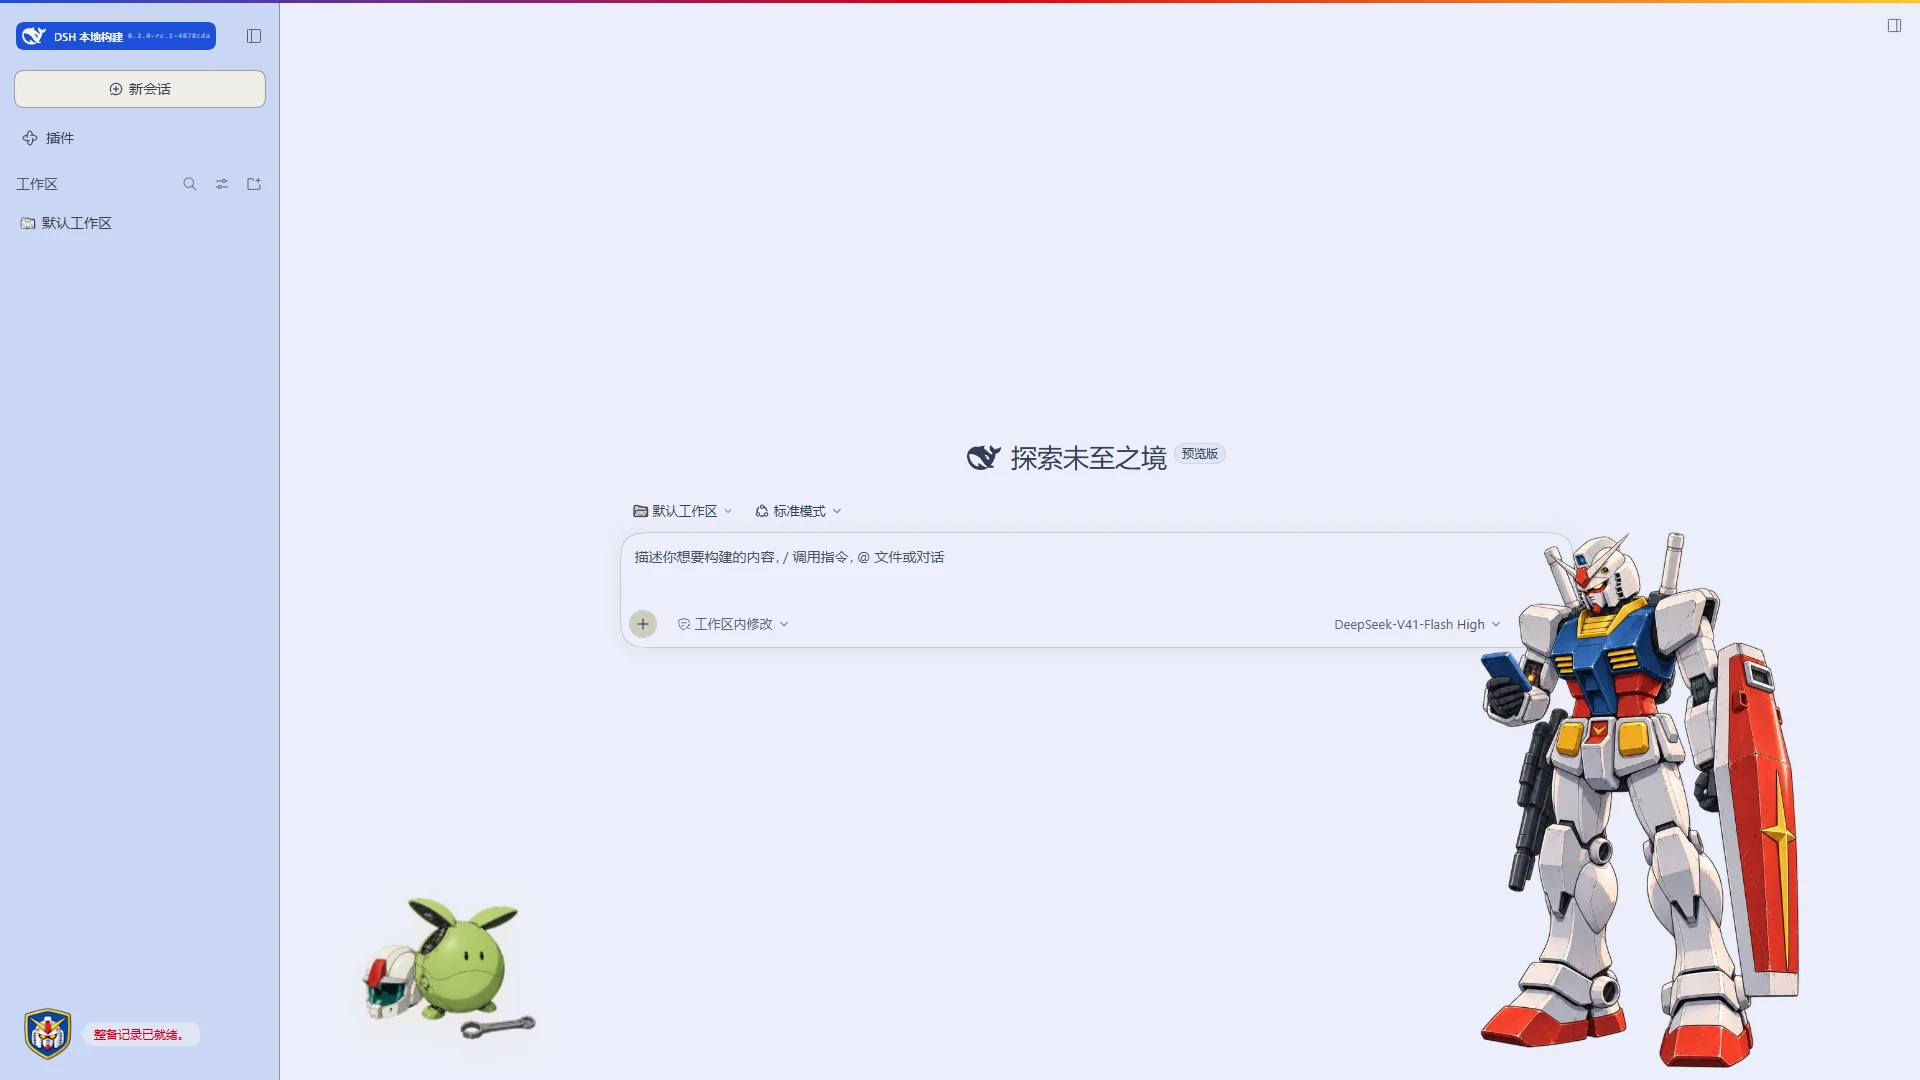
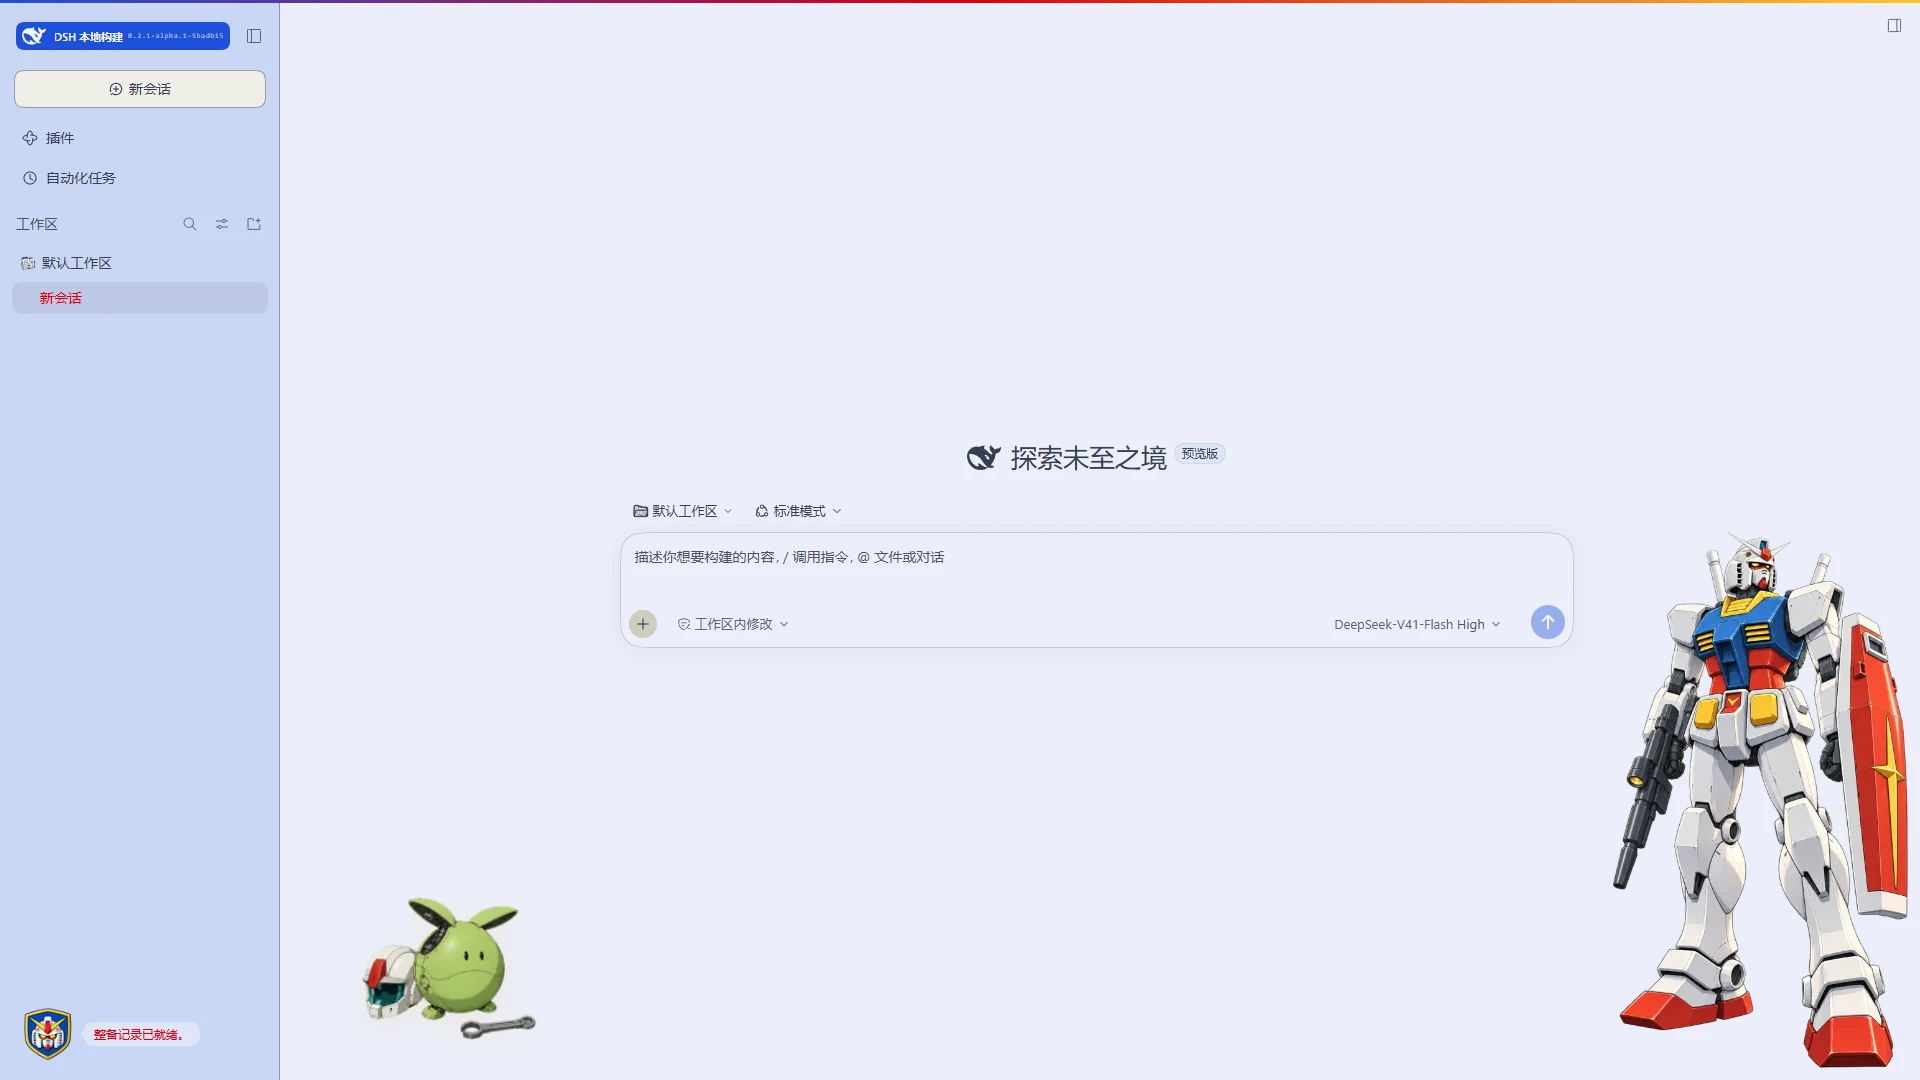
docs: showcase new themes directly in the README

diff --git a/docs/screenshots/README.md b/docs/screenshots/README.md
@@ -1,20 +1,22 @@
 # 大屏主题实拍
 
-48 套氛围主题，浅色与深色各一张，共 96 张，点击图片查看 1920 × 1080 原尺寸。
+65 套氛围主题，浅色与深色各一张，共 130 张，点击图片查看 1920 × 1080 原尺寸。
 
-截图展示 Harness 0.2.0-rc.1 的首页，采用清晰模式和默认侧栏。会话顶部横幅仅在聊天页显示。
+截图来自独立的 Harness 演示环境，展示真实首页、清晰模式和默认侧栏；没有导入个人账号、历史会话或工作区数据。首页不显示会话顶部横幅。
+
+2026-10-09 新增及重制的 18 套使用 Harness 0.2.1-alpha.1 拍摄，其余 47 套保留 0.2.0-rc.1 的截图。截图运行版本不替代 [兼容版本说明](../../README.md#兼容版本)。
 
 ## 快速跳转
 
-按分类选择主题，跳转至浅深色对照图。
+按分类选择主题，跳转至浅深色预览。
 
 **动漫**
 
-[电锯人·玛奇玛](#theme-2) · [吉伊卡哇·草原野餐](#theme-3) · [柯南·米花协奏](#theme-4) · [七龙珠·金焰并肩](#theme-5) · [EVA·初号机·觉醒](#theme-6) · [芙莉莲·花间研习](#theme-7) · [火影忍者·第七班](#theme-8) · [死神·千本樱](#theme-11) · [死神·斩月](#theme-12) · [电锯人·特异课](#theme-13) · [吉伊卡哇·星夜漫游](#theme-14) · [名侦探柯南·月下追踪](#theme-15) · [灰原哀·琥珀微光](#theme-16) · [怪盗基德·月白预告](#theme-17) · [阿拉蕾·企鹅村](#theme-18) · [七龙珠·龟仙流夏日](#theme-19) · [七龙珠·神龙奇旅](#theme-20) · [小林家的龙女仆](#theme-21) · [EVA·二号机·烈焰](#theme-22) · [芙莉莲·月下旅人](#theme-23) · [高达](#theme-24) · [超能力女儿](#theme-25) · [我叫MT](#theme-26) · [鬼灭之刃·羁绊同行](#theme-27) · [鬼灭之刃·柱之誓约](#theme-28) · [鬼灭之刃·樱庭恋歌](#theme-29) · [夏目友人帐](#theme-30) · [海贼王](#theme-31) · [圣斗士·天马流星](#theme-32) · [圣斗士·黄金十二宫](#theme-33) · [蜡笔小新](#theme-34) · [灌篮高手](#theme-35) · [火影忍者·凯班](#theme-36) · [游戏王·决斗之魂](#theme-37)
+[电锯人·玛奇玛](#theme-2) · [吉伊卡哇·草原野餐](#theme-3) · [柯南·米花协奏](#theme-4) · [七龙珠·金焰并肩](#theme-5) · [EVA·初号机·觉醒](#theme-6) · [芙莉莲·花间研习](#theme-7) · [火影忍者·第七班](#theme-8) · [死神·千本樱](#theme-11) · [死神·斩月](#theme-12) · [电锯人·特异课](#theme-13) · [吉伊卡哇·星夜漫游](#theme-14) · [名侦探柯南·月下追踪](#theme-15) · [灰原哀·琥珀微光](#theme-16) · [怪盗基德·月白预告](#theme-17) · [阿拉蕾·企鹅村](#theme-18) · [七龙珠·龟仙流夏日](#theme-19) · [七龙珠·神龙奇旅](#theme-20) · [小林家的龙女仆](#theme-21) · [EVA·二号机·烈焰](#theme-22) · [芙莉莲·月下旅人](#theme-23) · [高达](#theme-24) · [超能力女儿](#theme-25) · [我叫MT](#theme-26) · [鬼灭之刃·羁绊同行](#theme-27) · [鬼灭之刃·柱之誓约](#theme-28) · [鬼灭之刃·樱庭恋歌](#theme-29) · [夏目友人帐](#theme-30) · [海贼王](#theme-31) · [圣斗士·天马流星](#theme-32) · [圣斗士·黄金十二宫](#theme-33) · [蜡笔小新](#theme-34) · [灌篮高手](#theme-35) · [火影忍者·凯班](#theme-36) · [游戏王·决斗之魂](#theme-37) · [高达·ν高达](#theme-49) · [高达·巴巴托斯](#theme-50) · [高达·自由与正义](#theme-51) · [高达·独角兽觉醒](#theme-52) · [名侦探柯南·宝石谜夜](#theme-53) · [名侦探柯南·大阪同行](#theme-54) · [吉伊卡哇·烘焙小队](#theme-55) · [吉伊卡哇·雨后来信](#theme-56) · [七龙珠·包子山家书](#theme-57) · [七龙珠·布欧甜点屋](#theme-58) · [蜡笔小新·春日部探险队](#theme-61) · [蜡笔小新·野原家的周末](#theme-62) · [我叫MT·美屡的林间手札](#theme-63) · [我叫MT·联盟值日生](#theme-64) · [我叫MT·联盟补给站](#theme-65)
 
 **游戏**
 
-[王者荣耀·绝世舞姬](#theme-9) · [魔兽世界·血精灵](#theme-10) · [炉石传说·冰霜法师](#theme-38) · [炉石传说·冰冠王座](#theme-39) · [王者荣耀·青莲剑仙](#theme-40) · [英雄联盟·九尾妖狐](#theme-41) · [英雄联盟·爆爆火花](#theme-42) · [我的世界](#theme-43) · [守望先锋·守护天使](#theme-44) · [守望先锋·时间跃迁](#theme-45) · [魔兽世界·矮人](#theme-46) · [魔兽世界·兽人战士](#theme-47) · [魔兽世界·牛头人德鲁伊](#theme-48)
+[王者荣耀·绝世舞姬](#theme-9) · [魔兽世界·血精灵](#theme-10) · [炉石传说·冰霜法师](#theme-38) · [炉石传说·冰冠王座](#theme-39) · [王者荣耀·青莲剑仙](#theme-40) · [英雄联盟·九尾妖狐](#theme-41) · [英雄联盟·爆爆火花](#theme-42) · [我的世界](#theme-43) · [守望先锋·守护天使](#theme-44) · [守望先锋·时间跃迁](#theme-45) · [魔兽世界·矮人](#theme-46) · [魔兽世界·兽人战士](#theme-47) · [魔兽世界·牛头人德鲁伊](#theme-48) · [英雄联盟·艾欧尼亚茶会](#theme-59) · [英雄联盟·德玛西亚巡礼](#theme-60)
 
 **其他**
 
@@ -22,11 +24,11 @@
 
 <a name="theme-1"></a>
 
-## 大侠咕嘎与 Doro
+## 大侠咕嘎与Doro
 
 | 浅色 | 深色 |
 | --- | --- |
-| [![大侠咕嘎与 Doro · 浅色](01-daxia-light.webp)](01-daxia-light.webp) | [![大侠咕嘎与 Doro · 深色](01-daxia-dark.webp)](01-daxia-dark.webp) |
+| [![大侠咕嘎与Doro · 浅色](01-daxia-light.webp)](01-daxia-light.webp) | [![大侠咕嘎与Doro · 深色](01-daxia-dark.webp)](01-daxia-dark.webp) |
 
 <a name="theme-2"></a>
 
@@ -54,11 +56,11 @@
 
 <a name="theme-5"></a>
 
-## 龙珠·金焰并肩
+## 七龙珠·金焰并肩
 
 | 浅色 | 深色 |
 | --- | --- |
-| [![龙珠·金焰并肩 · 浅色](05-dragon-ball-z-light.webp)](05-dragon-ball-z-light.webp) | [![龙珠·金焰并肩 · 深色](05-dragon-ball-z-dark.webp)](05-dragon-ball-z-dark.webp) |
+| [![七龙珠·金焰并肩 · 浅色](05-dragon-ball-z-light.webp)](05-dragon-ball-z-light.webp) | [![七龙珠·金焰并肩 · 深色](05-dragon-ball-z-dark.webp)](05-dragon-ball-z-dark.webp) |
 
 <a name="theme-6"></a>
 
@@ -403,3 +405,139 @@
 | 浅色 | 深色 |
 | --- | --- |
 | [![魔兽世界·牛头人德鲁伊 · 浅色](48-wow-tauren-light.webp)](48-wow-tauren-light.webp) | [![魔兽世界·牛头人德鲁伊 · 深色](48-wow-tauren-dark.webp)](48-wow-tauren-dark.webp) |
+
+<a name="theme-49"></a>
+
+## 高达·ν高达
+
+| 浅色 | 深色 |
+| --- | --- |
+| [![高达·ν高达 · 浅色](49-gundam-nu-light.webp)](49-gundam-nu-light.webp) | [![高达·ν高达 · 深色](49-gundam-nu-dark.webp)](49-gundam-nu-dark.webp) |
+
+<a name="theme-50"></a>
+
+## 高达·巴巴托斯
+
+| 浅色 | 深色 |
+| --- | --- |
+| [![高达·巴巴托斯 · 浅色](50-gundam-barbatos-light.webp)](50-gundam-barbatos-light.webp) | [![高达·巴巴托斯 · 深色](50-gundam-barbatos-dark.webp)](50-gundam-barbatos-dark.webp) |
+
+<a name="theme-51"></a>
+
+## 高达·自由与正义
+
+| 浅色 | 深色 |
+| --- | --- |
+| [![高达·自由与正义 · 浅色](51-gundam-seed-light.webp)](51-gundam-seed-light.webp) | [![高达·自由与正义 · 深色](51-gundam-seed-dark.webp)](51-gundam-seed-dark.webp) |
+
+<a name="theme-52"></a>
+
+## 高达·独角兽觉醒
+
+| 浅色 | 深色 |
+| --- | --- |
+| [![高达·独角兽觉醒 · 浅色](52-gundam-unicorn-light.webp)](52-gundam-unicorn-light.webp) | [![高达·独角兽觉醒 · 深色](52-gundam-unicorn-dark.webp)](52-gundam-unicorn-dark.webp) |
+
+<a name="theme-53"></a>
+
+## 名侦探柯南·宝石谜夜
+
+| 浅色 | 深色 |
+| --- | --- |
+| [![名侦探柯南·宝石谜夜 · 浅色](53-conan-jewel-light.webp)](53-conan-jewel-light.webp) | [![名侦探柯南·宝石谜夜 · 深色](53-conan-jewel-dark.webp)](53-conan-jewel-dark.webp) |
+
+<a name="theme-54"></a>
+
+## 名侦探柯南·大阪同行
+
+| 浅色 | 深色 |
+| --- | --- |
+| [![名侦探柯南·大阪同行 · 浅色](54-conan-osaka-light.webp)](54-conan-osaka-light.webp) | [![名侦探柯南·大阪同行 · 深色](54-conan-osaka-dark.webp)](54-conan-osaka-dark.webp) |
+
+<a name="theme-55"></a>
+
+## 吉伊卡哇·烘焙小队
+
+| 浅色 | 深色 |
+| --- | --- |
+| [![吉伊卡哇·烘焙小队 · 浅色](55-chiikawa-bakery-light.webp)](55-chiikawa-bakery-light.webp) | [![吉伊卡哇·烘焙小队 · 深色](55-chiikawa-bakery-dark.webp)](55-chiikawa-bakery-dark.webp) |
+
+<a name="theme-56"></a>
+
+## 吉伊卡哇·雨后来信
+
+| 浅色 | 深色 |
+| --- | --- |
+| [![吉伊卡哇·雨后来信 · 浅色](56-chiikawa-rainy-light.webp)](56-chiikawa-rainy-light.webp) | [![吉伊卡哇·雨后来信 · 深色](56-chiikawa-rainy-dark.webp)](56-chiikawa-rainy-dark.webp) |
+
+<a name="theme-57"></a>
+
+## 七龙珠·包子山家书
+
+| 浅色 | 深色 |
+| --- | --- |
+| [![七龙珠·包子山家书 · 浅色](57-dragon-ball-family-light.webp)](57-dragon-ball-family-light.webp) | [![七龙珠·包子山家书 · 深色](57-dragon-ball-family-dark.webp)](57-dragon-ball-family-dark.webp) |
+
+<a name="theme-58"></a>
+
+## 七龙珠·布欧甜点屋
+
+| 浅色 | 深色 |
+| --- | --- |
+| [![七龙珠·布欧甜点屋 · 浅色](58-dragon-ball-sweets-light.webp)](58-dragon-ball-sweets-light.webp) | [![七龙珠·布欧甜点屋 · 深色](58-dragon-ball-sweets-dark.webp)](58-dragon-ball-sweets-dark.webp) |
+
+<a name="theme-59"></a>
+
+## 英雄联盟·艾欧尼亚茶会
+
+| 浅色 | 深色 |
+| --- | --- |
+| [![英雄联盟·艾欧尼亚茶会 · 浅色](59-lol-ionia-light.webp)](59-lol-ionia-light.webp) | [![英雄联盟·艾欧尼亚茶会 · 深色](59-lol-ionia-dark.webp)](59-lol-ionia-dark.webp) |
+
+<a name="theme-60"></a>
+
+## 英雄联盟·德玛西亚巡礼
+
+| 浅色 | 深色 |
+| --- | --- |
+| [![英雄联盟·德玛西亚巡礼 · 浅色](60-lol-demacia-light.webp)](60-lol-demacia-light.webp) | [![英雄联盟·德玛西亚巡礼 · 深色](60-lol-demacia-dark.webp)](60-lol-demacia-dark.webp) |
+
+<a name="theme-61"></a>
+
+## 蜡笔小新·春日部探险队
+
+| 浅色 | 深色 |
+| --- | --- |
+| [![蜡笔小新·春日部探险队 · 浅色](61-shinchan-friends-light.webp)](61-shinchan-friends-light.webp) | [![蜡笔小新·春日部探险队 · 深色](61-shinchan-friends-dark.webp)](61-shinchan-friends-dark.webp) |
+
+<a name="theme-62"></a>
+
+## 蜡笔小新·野原家的周末
+
+| 浅色 | 深色 |
+| --- | --- |
+| [![蜡笔小新·野原家的周末 · 浅色](62-shinchan-family-light.webp)](62-shinchan-family-light.webp) | [![蜡笔小新·野原家的周末 · 深色](62-shinchan-family-dark.webp)](62-shinchan-family-dark.webp) |
+
+<a name="theme-63"></a>
+
+## 我叫MT·美屡的林间手札
+
+| 浅色 | 深色 |
+| --- | --- |
+| [![我叫MT·美屡的林间手札 · 浅色](63-i-am-mt-huntress-light.webp)](63-i-am-mt-huntress-light.webp) | [![我叫MT·美屡的林间手札 · 深色](63-i-am-mt-huntress-dark.webp)](63-i-am-mt-huntress-dark.webp) |
+
+<a name="theme-64"></a>
+
+## 我叫MT·联盟值日生
+
+| 浅色 | 深色 |
+| --- | --- |
+| [![我叫MT·联盟值日生 · 浅色](64-i-am-mt-alliance-duo-light.webp)](64-i-am-mt-alliance-duo-light.webp) | [![我叫MT·联盟值日生 · 深色](64-i-am-mt-alliance-duo-dark.webp)](64-i-am-mt-alliance-duo-dark.webp) |
+
+<a name="theme-65"></a>
+
+## 我叫MT·联盟补给站
+
+| 浅色 | 深色 |
+| --- | --- |
+| [![我叫MT·联盟补给站 · 浅色](65-i-am-mt-alliance-camp-light.webp)](65-i-am-mt-alliance-camp-light.webp) | [![我叫MT·联盟补给站 · 深色](65-i-am-mt-alliance-camp-dark.webp)](65-i-am-mt-alliance-camp-dark.webp) |

diff --git a/README.md b/README.md
@@ -4,15 +4,32 @@
 
 共 65 组主题，每组包含氛围版和简约版，共 260 套浅深色外观。氛围版包含角色壁纸、场景横幅和侧栏伙伴；简约版保留配色，不显示图片装饰。
 
-## 大屏效果
+## 最新主题展示
 
-以下为 1920 × 1080 的 Harness 首页截图。点击图片查看原尺寸。
+2026-10-09 新增的 17 套主题与重绘的「高达」，浅色、深色直接展示。以下为 1920 × 1080 的 Harness 首页实拍，点击图片查看原尺寸。
 
-| 大侠咕嘎与 Doro · 浅色 | 玛奇玛 · 深色 |
-| --- | --- |
-| [![大侠咕嘎与 Doro · 浅色](docs/screenshots/01-daxia-light.webp)](docs/screenshots/01-daxia-light.webp) | [![玛奇玛 · 深色](docs/screenshots/02-makima-dark.webp)](docs/screenshots/02-makima-dark.webp) |
+| 主题 | 浅色 | 深色 |
+| --- | --- | --- |
+| [高达·ν高达](docs/screenshots/README.md#theme-49) | [![高达·ν高达 · 浅色](docs/screenshots/49-gundam-nu-light.webp)](docs/screenshots/49-gundam-nu-light.webp) | [![高达·ν高达 · 深色](docs/screenshots/49-gundam-nu-dark.webp)](docs/screenshots/49-gundam-nu-dark.webp) |
+| [高达](docs/screenshots/README.md#theme-24) | [![高达 · 浅色](docs/screenshots/24-gundam-light.webp)](docs/screenshots/24-gundam-light.webp) | [![高达 · 深色](docs/screenshots/24-gundam-dark.webp)](docs/screenshots/24-gundam-dark.webp) |
+| [高达·巴巴托斯](docs/screenshots/README.md#theme-50) | [![高达·巴巴托斯 · 浅色](docs/screenshots/50-gundam-barbatos-light.webp)](docs/screenshots/50-gundam-barbatos-light.webp) | [![高达·巴巴托斯 · 深色](docs/screenshots/50-gundam-barbatos-dark.webp)](docs/screenshots/50-gundam-barbatos-dark.webp) |
+| [高达·自由与正义](docs/screenshots/README.md#theme-51) | [![高达·自由与正义 · 浅色](docs/screenshots/51-gundam-seed-light.webp)](docs/screenshots/51-gundam-seed-light.webp) | [![高达·自由与正义 · 深色](docs/screenshots/51-gundam-seed-dark.webp)](docs/screenshots/51-gundam-seed-dark.webp) |
+| [高达·独角兽觉醒](docs/screenshots/README.md#theme-52) | [![高达·独角兽觉醒 · 浅色](docs/screenshots/52-gundam-unicorn-light.webp)](docs/screenshots/52-gundam-unicorn-light.webp) | [![高达·独角兽觉醒 · 深色](docs/screenshots/52-gundam-unicorn-dark.webp)](docs/screenshots/52-gundam-unicorn-dark.webp) |
+| [名侦探柯南·宝石谜夜](docs/screenshots/README.md#theme-53) | [![名侦探柯南·宝石谜夜 · 浅色](docs/screenshots/53-conan-jewel-light.webp)](docs/screenshots/53-conan-jewel-light.webp) | [![名侦探柯南·宝石谜夜 · 深色](docs/screenshots/53-conan-jewel-dark.webp)](docs/screenshots/53-conan-jewel-dark.webp) |
+| [名侦探柯南·大阪同行](docs/screenshots/README.md#theme-54) | [![名侦探柯南·大阪同行 · 浅色](docs/screenshots/54-conan-osaka-light.webp)](docs/screenshots/54-conan-osaka-light.webp) | [![名侦探柯南·大阪同行 · 深色](docs/screenshots/54-conan-osaka-dark.webp)](docs/screenshots/54-conan-osaka-dark.webp) |
+| [吉伊卡哇·烘焙小队](docs/screenshots/README.md#theme-55) | [![吉伊卡哇·烘焙小队 · 浅色](docs/screenshots/55-chiikawa-bakery-light.webp)](docs/screenshots/55-chiikawa-bakery-light.webp) | [![吉伊卡哇·烘焙小队 · 深色](docs/screenshots/55-chiikawa-bakery-dark.webp)](docs/screenshots/55-chiikawa-bakery-dark.webp) |
+| [吉伊卡哇·雨后来信](docs/screenshots/README.md#theme-56) | [![吉伊卡哇·雨后来信 · 浅色](docs/screenshots/56-chiikawa-rainy-light.webp)](docs/screenshots/56-chiikawa-rainy-light.webp) | [![吉伊卡哇·雨后来信 · 深色](docs/screenshots/56-chiikawa-rainy-dark.webp)](docs/screenshots/56-chiikawa-rainy-dark.webp) |
+| [七龙珠·包子山家书](docs/screenshots/README.md#theme-57) | [![七龙珠·包子山家书 · 浅色](docs/screenshots/57-dragon-ball-family-light.webp)](docs/screenshots/57-dragon-ball-family-light.webp) | [![七龙珠·包子山家书 · 深色](docs/screenshots/57-dragon-ball-family-dark.webp)](docs/screenshots/57-dragon-ball-family-dark.webp) |
+| [七龙珠·布欧甜点屋](docs/screenshots/README.md#theme-58) | [![七龙珠·布欧甜点屋 · 浅色](docs/screenshots/58-dragon-ball-sweets-light.webp)](docs/screenshots/58-dragon-ball-sweets-light.webp) | [![七龙珠·布欧甜点屋 · 深色](docs/screenshots/58-dragon-ball-sweets-dark.webp)](docs/screenshots/58-dragon-ball-sweets-dark.webp) |
+| [英雄联盟·艾欧尼亚茶会](docs/screenshots/README.md#theme-59) | [![英雄联盟·艾欧尼亚茶会 · 浅色](docs/screenshots/59-lol-ionia-light.webp)](docs/screenshots/59-lol-ionia-light.webp) | [![英雄联盟·艾欧尼亚茶会 · 深色](docs/screenshots/59-lol-ionia-dark.webp)](docs/screenshots/59-lol-ionia-dark.webp) |
+| [英雄联盟·德玛西亚巡礼](docs/screenshots/README.md#theme-60) | [![英雄联盟·德玛西亚巡礼 · 浅色](docs/screenshots/60-lol-demacia-light.webp)](docs/screenshots/60-lol-demacia-light.webp) | [![英雄联盟·德玛西亚巡礼 · 深色](docs/screenshots/60-lol-demacia-dark.webp)](docs/screenshots/60-lol-demacia-dark.webp) |
+| [蜡笔小新·春日部探险队](docs/screenshots/README.md#theme-61) | [![蜡笔小新·春日部探险队 · 浅色](docs/screenshots/61-shinchan-friends-light.webp)](docs/screenshots/61-shinchan-friends-light.webp) | [![蜡笔小新·春日部探险队 · 深色](docs/screenshots/61-shinchan-friends-dark.webp)](docs/screenshots/61-shinchan-friends-dark.webp) |
+| [蜡笔小新·野原家的周末](docs/screenshots/README.md#theme-62) | [![蜡笔小新·野原家的周末 · 浅色](docs/screenshots/62-shinchan-family-light.webp)](docs/screenshots/62-shinchan-family-light.webp) | [![蜡笔小新·野原家的周末 · 深色](docs/screenshots/62-shinchan-family-dark.webp)](docs/screenshots/62-shinchan-family-dark.webp) |
+| [我叫MT·美屡的林间手札](docs/screenshots/README.md#theme-63) | [![我叫MT·美屡的林间手札 · 浅色](docs/screenshots/63-i-am-mt-huntress-light.webp)](docs/screenshots/63-i-am-mt-huntress-light.webp) | [![我叫MT·美屡的林间手札 · 深色](docs/screenshots/63-i-am-mt-huntress-dark.webp)](docs/screenshots/63-i-am-mt-huntress-dark.webp) |
+| [我叫MT·联盟值日生](docs/screenshots/README.md#theme-64) | [![我叫MT·联盟值日生 · 浅色](docs/screenshots/64-i-am-mt-alliance-duo-light.webp)](docs/screenshots/64-i-am-mt-alliance-duo-light.webp) | [![我叫MT·联盟值日生 · 深色](docs/screenshots/64-i-am-mt-alliance-duo-dark.webp)](docs/screenshots/64-i-am-mt-alliance-duo-dark.webp) |
+| [我叫MT·联盟补给站](docs/screenshots/README.md#theme-65) | [![我叫MT·联盟补给站 · 浅色](docs/screenshots/65-i-am-mt-alliance-camp-light.webp)](docs/screenshots/65-i-am-mt-alliance-camp-light.webp) | [![我叫MT·联盟补给站 · 深色](docs/screenshots/65-i-am-mt-alliance-camp-dark.webp)](docs/screenshots/65-i-am-mt-alliance-camp-dark.webp) |
 
-[查看既有 48 套氛围主题的浅深色对照](docs/screenshots/README.md)，可按动漫、游戏和其他分类跳转。
+[查看全部 65 套氛围主题的浅深色预览](docs/screenshots/README.md)，可按动漫、游戏和其他分类跳转。
 
 ## 兼容版本
 
@@ -73,7 +90,7 @@ dsh plugin --profile web add /absolute/path/to/dsh-theme
 
 ### 笔记本与小窗口
 
-窗口宽度不足 1440px 或高度不足 800px 时，主题自动缩小角色、隐藏左下角物件、收紧顶部横幅，并将首页输入框居中。宽度不超过 900px 时，隐藏顶部横幅和聊天页背景角色，首页仍保留角色插画。
+窗口宽度不超过 1680px 或高度不足 800px 时，主题自动缩小角色、隐藏左下角物件、收紧顶部横幅，并将首页输入框居中。宽度不超过 900px 时，隐藏顶部横幅和聊天页背景角色，首页仍保留角色插画。
 
 ## 更新与回退
 
